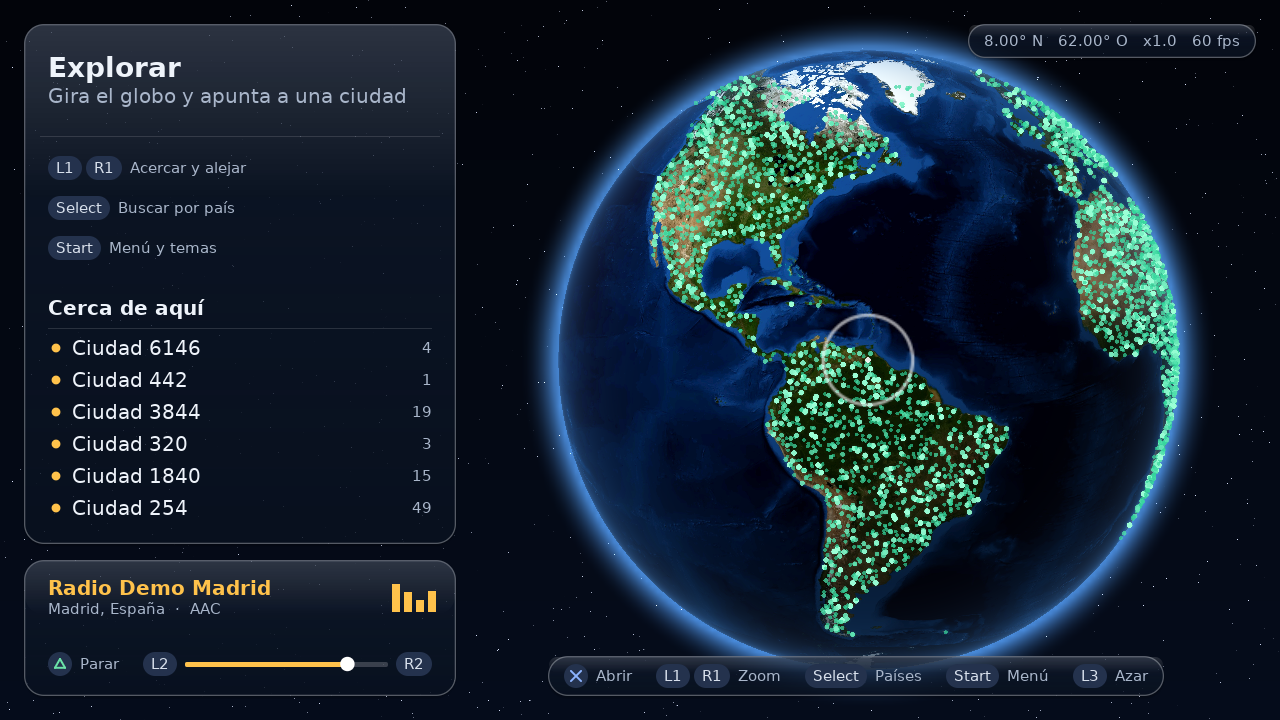
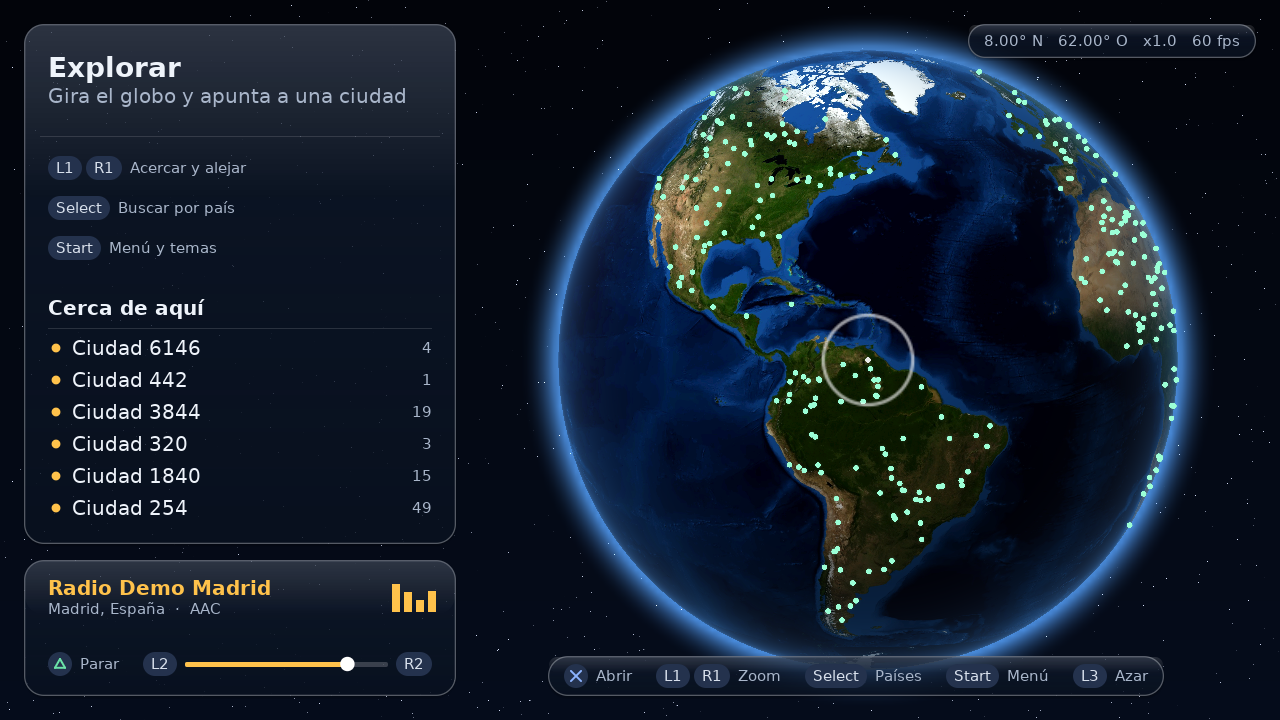
Zoom-based level of detail: only the biggest cities show zoomed out, more appear as you zoom in (sorted once, capped at 3000 dots)
Claude-Session: https://claude.ai/code/session_01MUBMYQ11wvo3x1EaX5hGBs

diff --git a/source/ui.cpp b/source/ui.cpp
@@ -70,11 +70,20 @@ bool ui_project(const UiModel *m, float lon, float lat, float *x, float *y)
 	*x = VCX + R * (px * b.ex + py * b.ey); *y = VCY - R * (px * b.nx + py * b.ny + pz * b.nz);
 	return true;
 }
+/* level of detail: only the biggest cities show when zoomed out; smaller ones appear as you zoom in */
+static int *ord = NULL;                                   /* place indices, biggest first */
+static const Place *sort_src = NULL;
+static int cmp_ord(const void *a, const void *b) { return (int)sort_src[*(const int *)b].size - (int)sort_src[*(const int *)a].size; }
+static int lod_min(float zoom) { return zoom < 1.5f ? 40 : zoom < 2.5f ? 25 : zoom < 4.f ? 12 : zoom < 7.f ? 6 : zoom < 12.f ? 3 : 1; }
+#define MAX_DOTS 3000
+
 int ui_pick(const UiModel *m)
 {
 	if (!g_pl || !m->nplaces) return -1;
 	Basis b = basis(m); float R = globe_R(m), lim = 4.5f * U, best = 1e30f; int hit = -1;
-	for (int i = 0; i < g_np; i++) {
+	int mn = lod_min(m->zoom);
+	for (int oi = 0; oi < g_np; oi++) {
+		int i = ord[oi]; if (g_pl[i].size < mn) break;
 		float depth = pvx[i] * b.cx + pvy[i] * b.cy + pvz[i] * b.cz; if (depth < 0.03f) continue;
 		float dx = R * (pvx[i] * b.ex + pvy[i] * b.ey), dy = -R * (pvx[i] * b.nx + pvy[i] * b.ny + pvz[i] * b.nz);
 		if (dx > lim || dx < -lim || dy > lim || dy < -lim) continue;
@@ -139,7 +148,10 @@ void ui_set_places(const Place *p, int n)
 	const float d = 0.0174533f;
 	for (int i = 0; i < n; i++) { float la = p[i].lat * d, lo = p[i].lon * d; pvx[i] = cosf(la) * cosf(lo); pvy[i] = cosf(la) * sinf(lo); pvz[i] = sinf(la); }
 	g_pl = p; g_np = n;
-	free(dotspr); dotspr = (Sprite *)malloc(sizeof(Sprite) * (2 * n + 1));
+	free(ord); ord = (int *)malloc(sizeof(int) * (n + 1));
+	for (int i = 0; i < n; i++) ord[i] = i;
+	sort_src = p; qsort(ord, n, sizeof(int), cmp_ord);
+	free(dotspr); dotspr = (Sprite *)malloc(sizeof(Sprite) * (2 * MAX_DOTS + 2));
 }
 
 /* ---------------- widgets ---------------- */
@@ -610,9 +622,12 @@ void ui_frame(UiModel *m)
 	if (g_pl && dotspr && m->nplaces) {
 		Basis b = basis(m);
 		float ds = (m->zoom < 2 ? 0.9f : (m->zoom < 8 ? 1.25f : 1.8f)) * (U / 8.f);
-		for (int pass = 0; pass < 2; pass++) for (int i = 0; i < g_np; i++) {
-			int sz = g_pl[i].size;
-			if (pass == 0 && sz < 12) continue;
+		int mn = lod_min(m->zoom), shown = 0;
+		for (int pass = 0; pass < 2; pass++) for (int oi = 0; oi < g_np; oi++) {
+			int i = ord[oi], sz = g_pl[i].size;
+			if (sz < mn) break;                       /* sorted: everything after is smaller */
+			if (pass == 0 && sz < 12) break;
+			if (pass == 1 && shown >= MAX_DOTS) break;
 			float depth = pvx[i] * b.cx + pvy[i] * b.cy + pvz[i] * b.cz; if (depth < 0.03f) continue;
 			float x = VCX + R * (pvx[i] * b.ex + pvy[i] * b.ey), y = VCY - R * (pvx[i] * b.nx + pvy[i] * b.ny + pvz[i] * b.nz);
 			if (x < -12 || y < -12 || x > W + 12 || y > H + 12) continue;
@@ -620,6 +635,7 @@ void ui_frame(UiModel *m)
 			float hs = (pass == 0 ? rad * 2.4f + 1.f : rad + 1.f) * ds;
 			const float *uv = pass == 0 ? UVGLOW : UVDISC;
 			float a = pass == 0 ? 0.16f : 0.65f + 0.35f * t;
+			if (pass == 1) shown++; else if (nd >= MAX_DOTS) break;
 			Sprite &q = dotspr[nd++];
 			q.x = x - hs; q.y = y - hs; q.w = q.h = 2 * hs;
 			q.u0 = uv[0]; q.v0 = uv[1]; q.u1 = uv[2]; q.v1 = uv[3];
